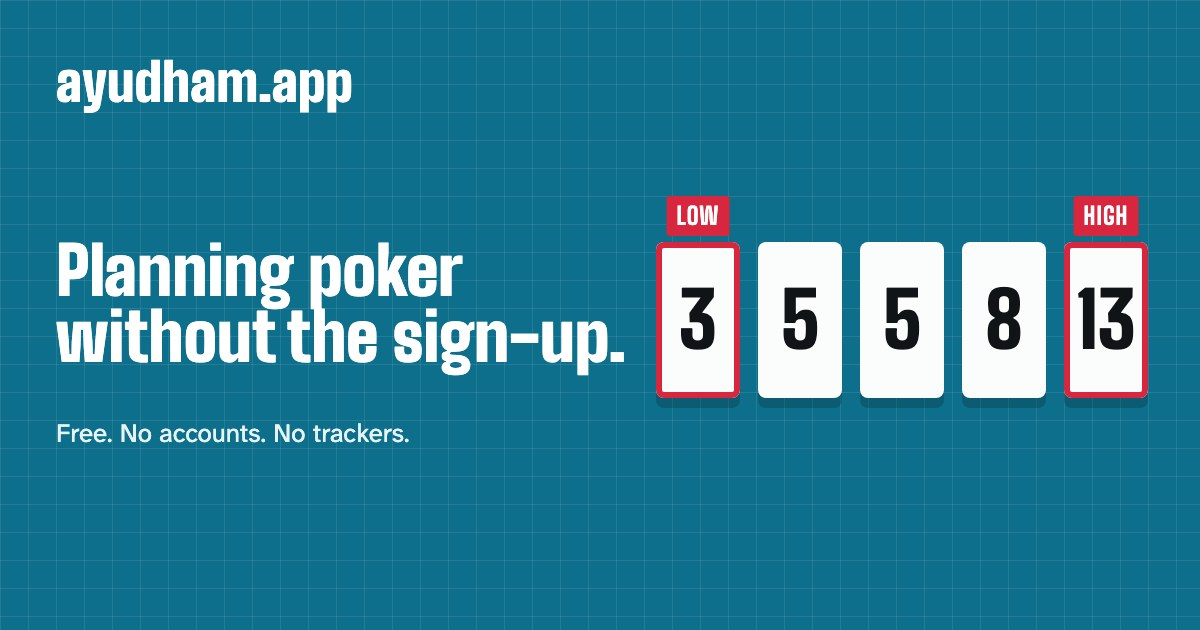
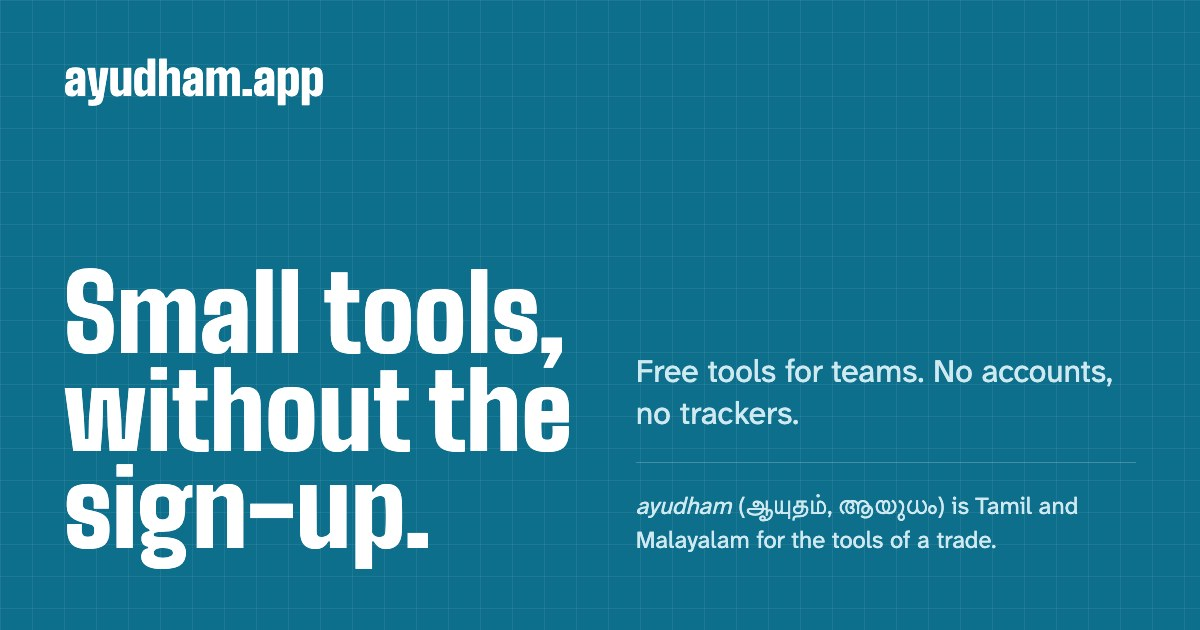
feat: a link preview for the suite
The preview image now matches the home band: the headline on the left, and beside it the promise and what the name means, in Tamil and Malayalam too. Its description, in the link-preview tags and the README, says the same.

Changed region(s): [[0.0308, 0.3016, 0.9558, 0.9048], [0.5242, 0.7841, 0.8942, 0.8746], [0.0308, 0.0905, 0.3083, 0.181]]

diff --git a/apps/web/src/lib/ui/Seo.svelte b/apps/web/src/lib/ui/Seo.svelte
@@ -23,7 +23,7 @@
   <meta property="og:image:height" content="630" />
   <meta
     property="og:image:alt"
-    content="ayudham.app: planning poker without the sign-up. Five scorecards showing 3, 5, 5, 8 and 13, the lowest and highest flagged."
+    content="ayudham.app: small tools, without the sign-up. Free tools for teams, no accounts, no trackers. Ayudham is Tamil and Malayalam for the tools of a trade."
   />
   <meta name="twitter:card" content="summary_large_image" />
   <meta name="twitter:image" content={image} />

diff --git a/README.md b/README.md
@@ -1,5 +1,5 @@
 <p align="center">
-  <img src="apps/web/static/og.jpg" alt="ayudham.app: planning poker without the sign-up. Five scorecards showing 3, 5, 5, 8 and 13, the lowest and highest flagged." width="840">
+  <img src="apps/web/static/og.jpg" alt="ayudham.app: small tools, without the sign-up. Free tools for teams, no accounts, no trackers. Ayudham is Tamil and Malayalam for the tools of a trade." width="840">
 </p>
 
 <h1 align="center">ayudham.app</h1>
@@ -24,7 +24,7 @@
 
 ---
 
-ayudham.app is a small suite of free tools. The first is planning poker, shown here. The second is a [Schema.org markup builder](#the-markup-builder): fill in a form, copy JSON-LD for your own site. The third is a set of [text generators and converters](#the-text-tools): make a password or an identifier, or turn text into another form. The fourth is a [maker of barcodes and QR codes](#the-code-maker).
+ayudham.app is a small suite of free tools. The first is planning poker. The second is a [Schema.org markup builder](#the-markup-builder): fill in a form, copy JSON-LD for your own site. The third is a set of [text generators and converters](#the-text-tools): make a password or an identifier, or turn text into another form. The fourth is a [maker of barcodes and QR codes](#the-code-maker).
 
 Estimation is judging, so planning poker looks like the judges' row at a diving meet: the story on a field of pool aqua, a row of white scorecards face down, and then every card turned in the same instant. The highest and lowest are flagged, because they speak first.
 
